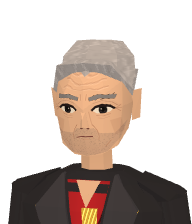
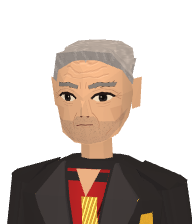
Tatsuo: el pelo mucho más corto, pegado a la cabeza
Refs #59

Claude-Session: https://claude.ai/code/session_01WqViisSqZhmgYzFjYXhKcW

Changed region(s): [[0.0312, 0.1875, 1.0, 1.0], [0.7188, 0.9375, 0.8125, 1.0]]

diff --git a/scripts/personajes/build.py b/scripts/personajes/build.py
@@ -285,11 +285,12 @@ def build_all(debug=False):
         if p.bone != 'head' or p.tile() == (0, 3) or (p.ntris == 4 and p.tile() == (2, 3)):
             continue  # not the cigarette, not the tufts of hair on top
         parts.append(borrow(p.copy()).move(0, 0.095, -0.018))
-    slick = tube([(1.598, 0, 0.004, 0.1, 0.118), (1.652, 0, -0.004, 0.094, 0.11), (1.69, 0, -0.016, 0.062, 0.078)], (3, 0), sides=8, caps=(False, True))
-    slick.pos[slick.pos[:, 2] < -0.02, 1] -= 0.03  # lower at the back
+    # cut short: a thin cap close to the skull
+    slick = tube([(1.602, 0, 0.004, 0.098, 0.114), (1.644, 0, -0.004, 0.09, 0.104), (1.662, 0, -0.014, 0.058, 0.07)], (3, 0), sides=8, caps=(False, True))
+    slick.pos[slick.pos[:, 2] < -0.02, 1] -= 0.02  # lower at the back
     slick.bone = 'head'
     parts += [borrow(slick).move(0, 0.095, -0.018),
-              borrow(hair_lock((-0.088, 1.475, -0.098), (0.088, 1.62, -0.052), (3, 0), 0.7)).move(0, 0.095, -0.018)]
+              borrow(hair_lock((-0.084, 1.545, -0.088), (0.084, 1.62, -0.052), (3, 0), 0.8)).move(0, 0.095, -0.018)]
     emit('tatsuo', scaled(parts, k), atlas, cuts_scaled(CUTS['terno_blanco'], k))
 
     # --- Momo: a student in a sailor uniform, long pink hair. Shiro's head,
